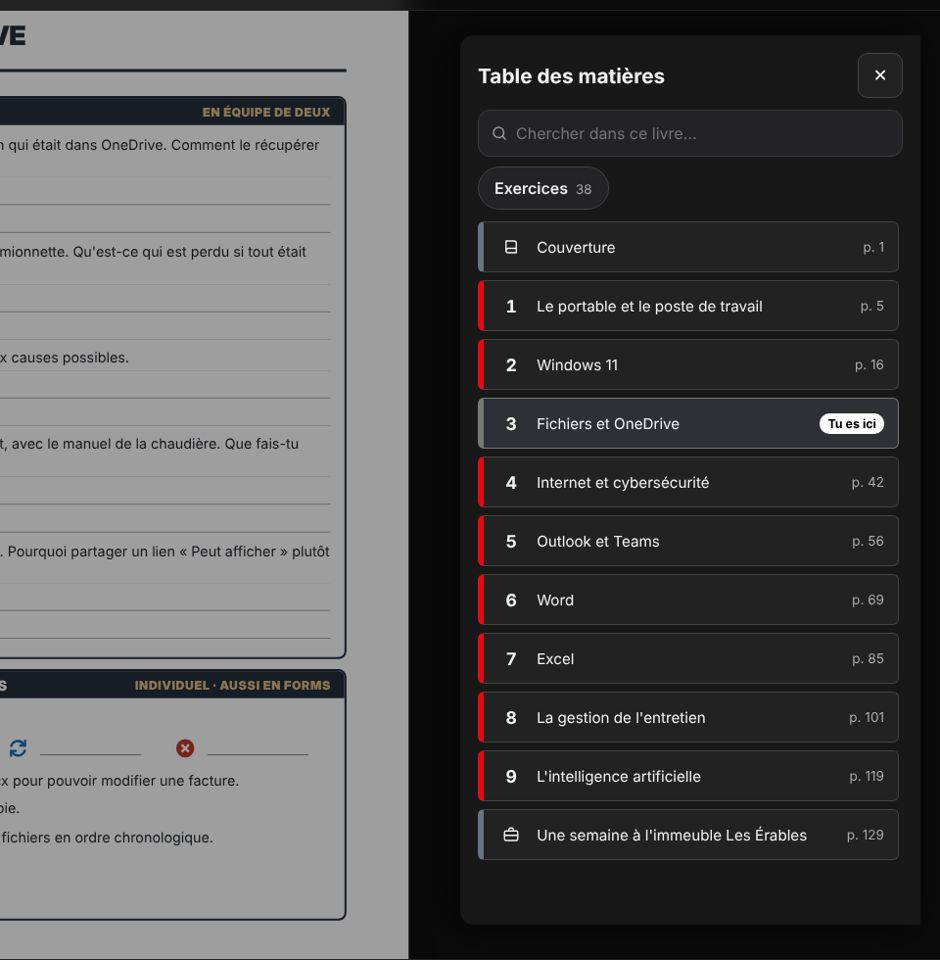
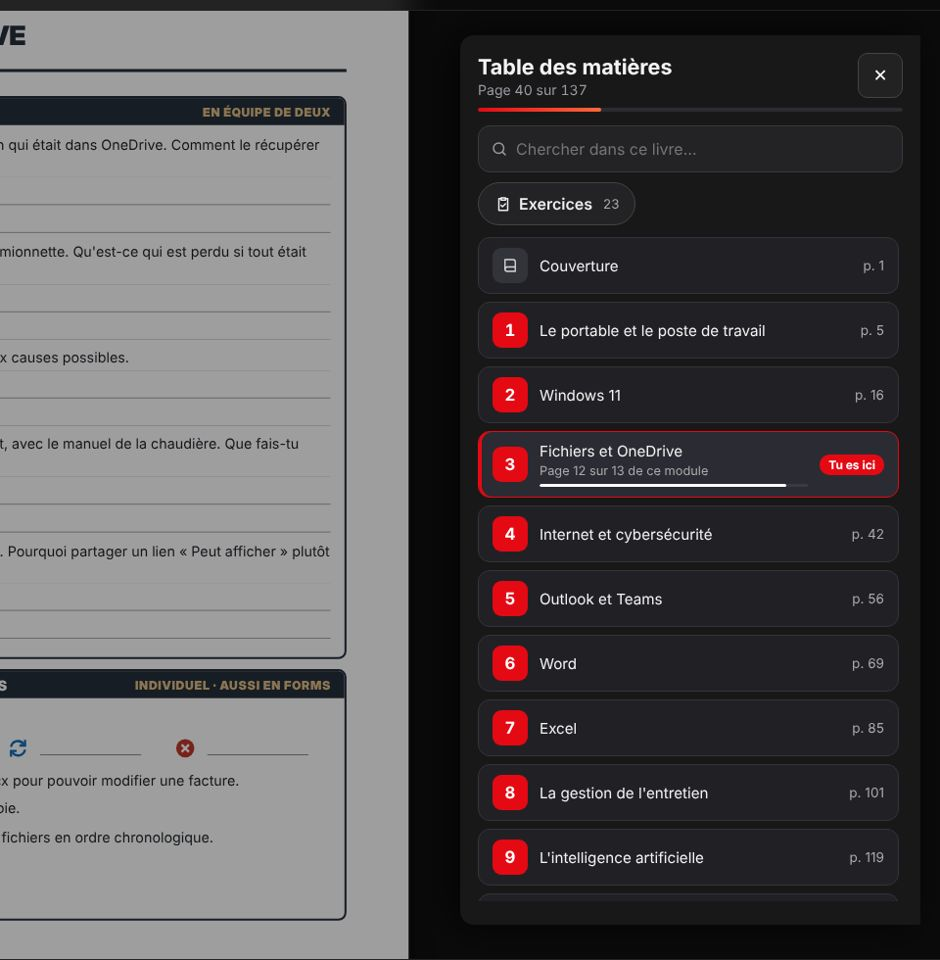
Table des matières : progression dans le livre et dans le module, numéros en pastilles, puces avec icônes
Claude-Session: https://claude.ai/code/session_01SDiVRMFd6TDbds6mykcuza

diff --git a/index.html b/index.html
@@ -504,7 +504,17 @@
   .mmenu-box{max-width:none;width:min(470px,94vw);max-height:none;height:100%;border-radius:14px 0 0 14px;padding:18px 18px 24px;display:flex;flex-direction:column;overflow:hidden;box-shadow:-10px 0 40px #000a}
   .mmenu:not([hidden]) .mmenu-box{animation:mmGlisse .28s cubic-bezier(.2,.8,.2,1)}
   @keyframes mmGlisse{from{translate:40px 0;opacity:.4}}
-  .mm-top{display:flex;align-items:center;gap:10px;margin-bottom:12px}.mm-top h2{margin:0!important;flex:1}
+  .mm-top{display:flex;align-items:center;gap:10px;margin-bottom:10px}.mm-titre{flex:1;min-width:0}.mm-top h2{margin:0!important;font-size:1.35rem}
+  .mm-ou{color:#9a9aa2;font-size:.88rem;margin-top:2px;font-variant-numeric:tabular-nums}
+  .mm-prog{height:4px;border-radius:2px;background:#2c2c31;margin:0 0 14px;overflow:hidden}.mm-prog i{display:block;height:100%;background:linear-gradient(90deg,#e50914,#ff6a3d);border-radius:2px;transition:width .4s}
+  .mmenu .mm{border:1px solid #34343a;border-left:1px solid #34343a;background:#212125;border-radius:12px;transition:background .15s,border-color .15s,transform .1s}
+  .mmenu .mm:hover{background:#2a2a30;border-color:#4a4a52}.mmenu .mm:active{transform:scale(.985)}
+  .mmenu .mm b{flex:none;width:36px;height:36px;border-radius:9px;background:var(--a,#e50914);color:#fff;font-size:1.05rem}
+  .mmenu .mm.mm-couverture b,.mmenu .mm.mm-intro b,.mmenu .mm.mm-lexique b,.mmenu .mm.mm-table b,.mmenu .mm.mm-sources b,.mmenu .mm.mm-annexe b,.mmenu .mm.mm-autre b,.mmenu .mm.mm-formatif b,.mmenu .mm.mm-projet b,.mmenu .mm.mm-bravo b{background:#33333a;color:#d8d8de}
+  .mmenu .mm.mm-ici{background:#2b2b33;border-color:#e50914;box-shadow:inset 3px 0 0 #e50914}
+  .mm-sous{display:block;color:#a8a8b0;font-size:.8rem;margin-top:3px}
+  .mm-av{display:block;height:3px;border-radius:2px;background:#3a3a42;margin-top:6px;position:relative;overflow:hidden}.mm-av::after{content:"";position:absolute;inset:0 auto 0 0;width:var(--av);background:#fff;border-radius:2px}
+  .mm-puces button{display:inline-flex;align-items:center;gap:7px}
   .mm-x{width:46px;height:46px;border-radius:10px;border:1px solid #444;background:#222;color:#fff;font-size:1.1rem;cursor:pointer}
   .mm-cherche{display:flex;align-items:center;gap:8px;background:#232326;border:1px solid #3a3a3e;border-radius:12px;padding:0 12px;height:48px;color:#999}
   .mm-cherche input{flex:1;min-width:0;background:none;border:0;outline:0;color:#fff;font:inherit;font-size:1rem}
@@ -514,11 +524,11 @@
   .mm-puces button.on{background:#fff;color:#000;border-color:#fff}.mm-puces button.on small{color:#555}
   .mmenu .mmenu-list{grid-template-columns:1fr;overflow:auto;flex:1;align-content:start;padding-right:4px}
   .mmenu .mm{min-height:52px;padding:10px 14px}
-  .mmenu .mmenu-list{display:flex;flex-direction:column;gap:8px}.mmenu .mmenu-list>*{flex:none}.mmenu .mm-res{height:auto;align-items:flex-start}.mm-res b{margin-top:2px}
+  .mmenu .mmenu-list{display:flex;flex-direction:column;gap:8px}.mmenu .mmenu-list>*{flex:none}.mmenu .mm-res{height:auto;align-items:center}.mmenu .mm-res:has(.mm-ext){align-items:flex-start}.mmenu .mm-res b{margin-top:0;width:auto;min-width:36px;padding:0 6px;font-size:.95rem}
   .mm span{flex:1;min-width:0}
   .mm-p{flex:none;color:#888;font-size:.85rem}
-  .mm.mm-ici{background:#2f3036;border-color:#777}
-  .mm-tag{flex:none;font-style:normal;font-size:.78rem;font-weight:700;background:#fff;color:#000;border-radius:10px;padding:3px 8px}
+
+  .mm-tag{flex:none;font-style:normal;font-size:.75rem;font-weight:700;background:#e50914;color:#fff;border-radius:10px;padding:3px 9px}
   .mm-ext{display:block;color:#aaa;font-size:.82rem;margin-top:3px;line-height:1.3;overflow:hidden;display:-webkit-box;-webkit-line-clamp:2;-webkit-box-orient:vertical}
   @media (max-width:640px){.mmenu-box{width:100%;border-radius:0}}
   .mm-h{grid-column:1/-1;font-weight:700;color:#bbb;font-size:.85rem;letter-spacing:.06em;text-transform:uppercase;margin-top:6px}
@@ -1031,7 +1041,7 @@ document.addEventListener("keydown", e => { if (e.key !== "/" || e.ctrlKey || e.
     <div id="tbPop" role="menu" aria-label="Plus d'outils"><div class="tbph"><b>Plus d'outils</b><span><button id="tbOrg" title="Glisser les boutons pour les déplacer entre la barre et ce menu">✎ Organiser</button><button id="tbRaz" title="Remettre la disposition d'origine">Réinitialiser</button></span></div><div class="grid" id="tbGrid"></div><p class="tbhint">Mode organiser : glisse un bouton pour le changer de place ou le passer entre la barre et ce menu.</p></div>
   </div>
   <button class="barres-handle" id="barresHandle" aria-label="Afficher les barres d'outils" title="Afficher les outils (H)"><svg viewBox="0 0 24 24" width="16" height="16" fill="none" stroke="currentColor" stroke-width="1.8" stroke-linecap="round" stroke-linejoin="round" aria-hidden="true"><path d="M6 15l6-6 6 6"/></svg></button>
-  <div class="mmenu" id="mmenu" hidden role="dialog" aria-label="Modules"><div class="mmenu-box"><div class="mm-top"><h2>Table des matières</h2><button class="mm-x" id="mmX" aria-label="Fermer">✕</button></div><div class="mm-outils"><label class="mm-cherche"><svg viewBox="0 0 24 24" width="18" height="18" fill="none" stroke="currentColor" stroke-width="2" stroke-linecap="round" aria-hidden="true"><circle cx="11" cy="11" r="7"/><path d="M20 20l-3.5-3.5"/></svg><input id="mmQ" type="search" placeholder="Chercher dans ce livre…" aria-label="Chercher dans ce livre" autocomplete="off"></label><div class="mm-puces" id="mmPuces"></div></div><div class="mmenu-list" id="mmenuList"></div></div></div>
+  <div class="mmenu" id="mmenu" hidden role="dialog" aria-label="Modules"><div class="mmenu-box"><div class="mm-top"><div class="mm-titre"><h2>Table des matières</h2><div class="mm-ou" id="mmOu"></div></div><button class="mm-x" id="mmX" aria-label="Fermer">✕</button></div><div class="mm-prog"><i id="mmProg"></i></div><div class="mm-outils"><label class="mm-cherche"><svg viewBox="0 0 24 24" width="18" height="18" fill="none" stroke="currentColor" stroke-width="2" stroke-linecap="round" aria-hidden="true"><circle cx="11" cy="11" r="7"/><path d="M20 20l-3.5-3.5"/></svg><input id="mmQ" type="search" placeholder="Chercher dans ce livre…" aria-label="Chercher dans ce livre" autocomplete="off"></label><div class="mm-puces" id="mmPuces"></div></div><div class="mmenu-list" id="mmenuList"></div></div></div>
 </div>
 
 <div class="modal" id="modal">
@@ -4917,7 +4927,12 @@ function dessinerMenu(){
   }
   const pc = tdmPageCourante(); let ici = -1;
   if (pc) mods.forEach((m, i) => { if (typeof m.page === "number" && m.page <= pc && (ici < 0 || m.page >= mods[ici].page)) ici = i; });
-  h += mods.map((m, i) => `<button class="mm mm-${m.kind || "module"}${i === ici ? " mm-ici" : ""}" data-i="${i}" style="--a:${esc(m.color || "#e50914")}"><b>${m.ico || esc(m.tag)}</b><span>${esc(m.text)}</span>${i === ici ? '<em class="mm-tag">Tu es ici</em>' : typeof m.page === "number" ? `<small class="mm-p">p. ${m.page}</small>` : ""}</button>`).join("");
+  const tot = (() => { try { return RD.drv.state().tot || 0; } catch(e){ return 0; } })();
+  if ($("#mmOu")) { $("#mmOu").textContent = pc ? "Page " + pc + (tot ? " sur " + tot : "") : ""; $("#mmProg").style.width = (pc && tot ? Math.round(pc / tot * 100) : 0) + "%"; }
+  const finMod = i => { const n = mods.slice(i + 1).find(m => typeof m.page === "number" && m.page > mods[i].page); return n ? n.page - 1 : tot || mods[i].page; };
+  h += mods.map((m, i) => { const ic = i === ici, f = typeof m.page === "number" ? finMod(i) : 0, nb = f && f >= m.page ? f - m.page + 1 : 0;
+    const av = ic && nb ? Math.max(4, Math.round((pc - m.page + 1) / nb * 100)) : 0;
+    return `<button class="mm mm-${m.kind || "module"}${ic ? " mm-ici" : ""}" data-i="${i}" style="--a:${esc(m.color || "#e50914")}"><b>${m.ico || esc(m.tag)}</b><span>${esc(m.text)}${ic && nb > 1 ? `<small class="mm-sous">Page ${pc - m.page + 1} sur ${nb} de ce module</small><i class="mm-av" style="--av:${av}%"></i>` : ""}</span>${ic ? '<em class="mm-tag">Tu es ici</em>' : typeof m.page === "number" ? `<small class="mm-p">p. ${m.page}</small>` : ""}</button>`; }).join("");
   const L = $("#mmenuList"); L.innerHTML = h;
   setTimeout(() => { const e = L.querySelector(".mm-ici"); if (e) e.scrollIntoView({ block:"center" }); }, 0);
   L.querySelectorAll(".mm[data-i]").forEach(b => b.onclick = () => { closeMenu(); mods[+b.dataset.i].run(); setTimeout(() => { syncSecond(); poll(); }, 300); });
@@ -4958,10 +4973,12 @@ function tdmPages(){
   RD.tdmCache = { d, p }; return p;
 }
 function tdmOutils(){
-  const P = tdmPages(), na = P.filter(x => x.anim).length, ne = P.filter(x => x.exo).length;
+  const P = tdmPages(), grp = k => { let n = 0, d = null; P.forEach(x => { if (!x[k]) return; const t = x.h || ""; if (!(d && d.t === t && d.f === x.n - 1)) n++; d = { t, f:x.n }; }); return n; };
+  const na = grp("anim"), ne = grp("exo");
   const B = $("#mmPuces");
-  B.innerHTML = (na ? `<button data-vue="anim" class="${RD.mmVue === "anim" ? "on" : ""}">Animations <small>${na}</small></button>` : "")
-    + (ne ? `<button data-vue="exo" class="${RD.mmVue === "exo" ? "on" : ""}">Exercices <small>${ne}</small></button>` : "");
+  const ic = d => '<svg viewBox="0 0 24 24" width="18" height="18" fill="none" stroke="currentColor" stroke-width="2" stroke-linecap="round" stroke-linejoin="round" aria-hidden="true">' + d + '</svg>';
+  B.innerHTML = (na ? `<button data-vue="anim" class="${RD.mmVue === "anim" ? "on" : ""}">${ic('<circle cx="12" cy="12" r="9"/><path d="M10 8.5l5 3.5-5 3.5z" fill="currentColor"/>')}Animations <small>${na}</small></button>` : "")
+    + (ne ? `<button data-vue="exo" class="${RD.mmVue === "exo" ? "on" : ""}">${ic('<path d="M9 4h6v3H9z"/><path d="M15 5h3v16H6V5h3"/><path d="M9 14l2 2 4-4"/>')}Exercices <small>${ne}</small></button>` : "");
   B.querySelectorAll("button").forEach(b => b.onclick = () => { RD.mmVue = RD.mmVue === b.dataset.vue ? "" : b.dataset.vue; $("#mmQ").value = ""; tdmOutils(); tdmListe(); });
   $("#mmQ").parentElement.hidden = !P.length;
 }

diff --git a/CLAUDE.md b/CLAUDE.md
@@ -131,7 +131,7 @@
 - **Livres téléchargés d'avance (7 nov., « il pourrait pas se télécharger automatiquement »)** : script à la toute fin d'`index.html` (`window.telechargerLivres`) : connecté + service worker actif → chaque livre permis (`livres/<f>.chiffre` ou `.html`) est demandé un à la fois (1,5 s entre deux), 12 s après le chargement puis aux 60 s jusqu'à ce que ce soit fait pour la session; `sw.js` (`copieDabord`) le garde, ou vérifie seulement s'il a changé. Pas sur `navigator.connection` cellulaire / `saveData` / 2g-3g; en pause tant qu'un livre est ouvert ou l'onglet caché. Testé : 13 livres en cache. Ça accélère l'ouverture, pas les animations.
 - **Mode léger (6 nov., « animations super lentes sur le tableau interactif »)** : script en tête d'`index.html` **et** d'`accueil.html` (même code) : `localStorage.modeLeger` = "oui" | "non" (rien = automatique); en auto, 3 s après le chargement un essai de 1,5 s (div floutée animée, invisible à 3 %) mesure l'image médiane : > 28 ms = `modeLegerMesure:"lent"`. Classe `html.leger` : CSS « Mode léger » (index : pas de `backdrop-filter`, transitions .01 s, animations coupées sauf les exceptions du `prefers-reduced-motion`; accueil : pas de flou, `animPermise()` faux donc fond figé, un `MutationObserver` refait `applyBg`); `LEGERCSS` ajouté à `HOSTCSS` à l'ouverture d'un livre (pas de flou, transition de page .01 s); `setupExtras` ne fait pas les copies de page en mode léger. `window.modeLegerChoix()` / `modeLegerFixer(v)`; réglage « Animations » (Automatique / Complètes / Légères) dans Mes préférences. **Cellulaire (7 nov.)** : en automatique, un petit écran tactile (`cell()` : `pointer:coarse` et petit côté de l'écran ≤ 600 px) est toujours en mode léger (pas l'iPad); « Complètes » l'enlève. Testé en Chromium avec CPU ×8 (accueil = lent → classe posée) et forcé "oui"; **pas testé sur le vrai TNI** : si c'est encore lent, regarder le poids des livres (pages 816×1056 agrandies en 4K) et les animations propres aux livres, que le mode léger ne touche pas.
 - **Plein écran à l'ouverture d'un livre (6 nov., demande de Jeremy)** : début de `lire(l)` demande `requestFullscreen` sur `document.documentElement` (pendant le geste du clic; `closeReader` le quitte déjà), sauf en mode classe ou si `PREF().plein === false` (Mes préférences → « Livre en plein écran » Oui/Non, défaut oui). Pas pour le tableau blanc ni les activités. Testé par simulation de `requestFullscreen` (appelé 1 fois; 0 avec le réglage Non); un livre protégé non permis passe aussi en plein écran avant la fenêtre de connexion.
-- **Table des matières en panneau (7 nov., idée D choisie par Jeremy)** : `#mmenu` = panneau à droite (livre visible derrière), en-tête « Table des matières » + ✕ `#mmX`, recherche `#mmQ` (texte de chaque `.page` du cadre, nœuds texte joints par des espaces; ≥ 2 lettres, 40 résultats max, Entrée = 1er résultat), puces `#mmPuces` Animations (page avec `-st1`/`dmc-` ou titre « Animation ») / Exercices (`.reponse`, `.reponse-choix`, `.ans`, champs) → `tdmListe` (pages consécutives au même titre regroupées « Pages a à b »); `tdmPages` (cache `RD.tdmCache` par document; titre = h1/h2/h3, sinon le plus gros texte court ≥ 17 px); « Tu es ici » = dernier module dont `page` ≤ page courante (les modules ont maintenant `page`). Liste en `flex` colonne (en grille, les rangées de résultats étaient coupées). Testé : C9 et micro-ordinateur (clairs) à 1920×1080; pas testé : cellulaire, TNI, livres chiffrés en ligne.
+- **Table des matières en panneau (7 nov., idée D choisie par Jeremy)** : `#mmenu` = panneau à droite (livre visible derrière), en-tête « Table des matières » + ✕ `#mmX`, recherche `#mmQ` (texte de chaque `.page` du cadre, nœuds texte joints par des espaces; ≥ 2 lettres, 40 résultats max, Entrée = 1er résultat), puces `#mmPuces` Animations (page avec `-st1`/`dmc-` ou titre « Animation ») / Exercices (`.reponse`, `.reponse-choix`, `.ans`, champs) → `tdmListe` (pages consécutives au même titre regroupées « Pages a à b »); `tdmPages` (cache `RD.tdmCache` par document; titre = h1/h2/h3, sinon le plus gros texte court ≥ 17 px); « Tu es ici » = dernier module dont `page` ≤ page courante (les modules ont maintenant `page`). Liste en `flex` colonne (en grille, les rangées de résultats étaient coupées). Finition (même soir) : « Page N sur T » + barre rouge sous le titre (`#mmOu`, `#mmProg`), numéros dans des carrés de couleur (`--a`), module en cours encadré de rouge avec « Page x sur y de ce module » + mini-barre (`.mm-sous`, `.mm-av`; fin du module = page du module suivant − 1), puces avec icônes, compte des puces = nombre de groupes (comme la liste). Testé : C9 et micro-ordinateur (clairs) à 1920×1080; pas testé : cellulaire, TNI, livres chiffrés en ligne.
 - **Barre de recherche** (29 oct.) : pilule 270 px → 340 px au focus, loupe `.search-ico`, touche « / » affichée (`.search-kbd`, cachée au toucher, au focus ou s'il y a du texte) et raccourci « / » (script après `<main id="rows">`, pas dans un livre, une fenêtre ou une case de saisie); croix d'effacement redessinée; version claire dans le bloc `body.clair`.
 - **Livres protégés / comptes enseignants** (29 oct., demande de Jeremy : « protéger les livres », en restant sur GitHub Pages) : bloc « Accès protégé » à la fin de `index.html` (`window.ACCES`). Livres **chiffrés** : `livres/<f>.chiffre` = iv(12) + AES-GCM(gzip(html)), recherche dans `recherche/<f>.chiffre` (même clé); `comptes.json` (public) : `comptes{id:{nom, pub (JWK RSA-OAEP-256), priv:{s,i,c} (clé privée PKCS8 chiffrée par PBKDF2 250 000 du mot de passe), admin}}`, `livres{f:{cles{id: clé AES enveloppée RSA}}}`. Le mot de passe ne sort jamais du navigateur; session = clé privée non exportable dans IndexedDB `acces`. Bouton `#compteBtn` (initiales une fois connecté; menu : Gérer les accès [admin], Se déconnecter), entrée « Se connecter » du menu Plus (`data-plus="compte"`). `lire()` attend `ACCES.pret`, ouvre la connexion si besoin, refuse un livre non permis; `bookCard` met un cadenas `.cadenas` sur un livre verrouillé; `chargerIndex` fusionne `ACCES.recherche()`. **Inscription** : l'enseignant crée sa demande (paire de clés créée dans son navigateur) → code `DEMANDE-…` à envoyer à Jeremy → panneau « Accès des enseignants » (admin; une fiche `.acces-fiche` par enseignant depuis le 29 oct. — l'ancien tableau débordait avec beaucoup de livres : boutons programmes / Mot de passe / Retirer en haut, livres en pastilles `.acces-chip` groupées par programme dans un `<details data-fiche>` « Livres permis : n sur N », ouvert/fermé gardé dans `OUVERTS` entre deux redessins) : coller le code, cocher les livres (la clé du livre est ouverte avec la clé de l'admin et enveloppée pour l'enseignant), **Publier** (API GitHub `PUT contents/comptes.json`, jeton fin `localStorage.ghJeton`) ou « Télécharger comptes.json ». **Outil** `outils/chiffrer.js <site> [<dépôt>] [--proteger f1,f2]` : nouvelle clé par livre, vérification octet pour octet, clé enveloppée pour les admins + ceux qui avaient déjà le livre, original clair déplacé dans `/home/claude/originaux/livres` (jamais publié), `.html` clair effacé du site et du dépôt, entrée retirée de `recherche.json`. `publier.sh` l'appelle à chaque publication (mise à jour d'un livre protégé : déposer le `.html` clair dans `livres/`, publier avec le nom du livre → vérifié en clair puis chiffré). **Code court (29 oct.)** : les nouveaux comptes sont en **ECDH P-256** (`pub` = JWK EC x/y; `priv.c` = la valeur `d` de 32 octets chiffrée); code `DEMANDE-` binaire en base64url ≈ 220 caractères (`demande`/`lireDemande` : version 2, bits de programmes `PROG_BITS`, clé publique brute 65 o, sel, iv, d chiffré, nom). Clés des livres pour un compte EC : `"E" + base64(clé éphémère 65 o | iv 12 | AES-GCM(clé du livre))` (`envelopperPour`, `ouvrirEnveloppe`, même format dans `chiffrer.js`); les comptes RSA (celui de Jeremy) et l'ancien code JSON `eyJ…` restent acceptés. **Programmes** : `comptes[id].prog` = catégories de `LIVRES` (« Entretien général d'immeubles », « Plomberie et chauffage »); l'enseignant les coche dans sa demande; le panneau a des boutons EGI / Plomberie par enseignant (`appliquerProgs` : donne/retire tous les livres protégés de ce programme); `chiffrer.js` lit la catégorie de chaque livre dans `index.html` et enveloppe aussi la clé pour ceux qui ont ce programme (nouveau livre protégé = donné automatiquement). **Demandes → panneau admin** (FormSubmit abandonné : aucun courriel reçu, ni école ni Hotmail) : la demande est publiée sur le sujet ntfy.sh `https://ntfy.sh/biblio-pavillon-5edf93926a704efe` (`BOITE`, POST du code, titre « Demande d'acces : nom »); le panneau « Accès des enseignants » lit `BOITE/json?poll=1&since=12h` (`lireBoite`) et liste les « Demandes reçues » (Accepter = ajoute avec ses programmes; Ignorer), gardées dans `localStorage.demandesVues` de l'ordinateur de l'admin; « Ignorer » met le code dans `localStorage.demandesIgnorees` (la même demande renvoyée ne réapparaît plus; une nouvelle demande de la même personne, oui). Clé GitHub déjà enregistrée : la case et « Télécharger comptes.json » sont cachées, petit lien « Changer » (`#gChg`); erreur 401 → conseil de la changer; ntfy.sh ne garde que 12 h, donc le navigateur du prof garde `demandeEnAttente` et la renvoie (au plus toutes les 6 h, `relancerDemande`) tant que son compte n'est pas dans `comptes.json`. Menu du compte admin : « (N demandes) » + contour rouge (`compterDemandes`). Si l'envoi échoue : code court + bouton « Envoyer par Teams » (lien profond Teams vers raymjere@csskamloup.gouv.qc.ca avec le lien `#accepter=<code>`, `accepterDepuisLien`). Jeremy peut s'abonner au sujet dans l'appli ntfy pour être avisé. **Mots de passe** : « Mot de passe oublié ? » dans la connexion → même formulaire (`dlgDemande(true)`, sans programmes, nom d'un compte existant) → demande « Nouveau mot de passe » dans la boîte (une demande dont la clé publique diffère du compte existant); bouton « Mot de passe » par enseignant dans le panneau (`prompt`, l'admin choisit le mot de passe); les deux passent par `remplacerCompte` (nouvelles clés, mêmes livres et programmes). Le compte admin de Jeremy (RSA) ne peut être réinitialisé par personne : s'il oublie, il refait une demande et Claude remplace son compte dans `comptes.json` (admin:true) puis rechiffre les livres (`chiffrer.js`, les originaux sont dans `/home/claude/originaux/livres` — dossier perdu si la session est recréée : redemander les livres à Jeremy). Limites : retirer un livre à quelqu'un n'efface pas une copie déjà ouverte (pour couper vraiment : rechiffrer le livre); les anciennes versions claires restent dans l'historique git tant qu'on ne l'a pas effacé. État le 29 oct. : compte admin `jeremy.raymond` (demande reçue de Jeremy); **tous les 8 livres sont protégés** (29 oct., 18 h 20; comptes : `jeremy.raymond` admin RSA, `stephane.lachance` EC, EGI + Plomberie). Pour protéger un nouveau livre : déposer le `.html`, `git pull` du dépôt et recopier `comptes.json` dans le site, `node outils/chiffrer.js site bibliotheque --proteger <livre>`, puis `GARDER_COMPTES=1 bash outils/publier.sh …` (sinon publier.sh recopie le `comptes.json` en ligne par-dessus). Copie des originaux aussi dans le dossier scratchpad `originaux_sauvegarde`. Testé (copie de test) : cadenas, mauvais mot de passe, ouverture, recherche, ajout d'une enseignante par le panneau, refus d'un livre non permis, session gardée, `livres/x.html` → 404.
 - **Fenêtres du compte habillées** (29 oct., « c'est fade ») : `marque(titre, sous)` = en-tête `.acces-marque` (logo Pavillon en blanc, dégradé rouge) pour Se connecter / Demander un accès / Mot de passe oublié; programmes en cartes `.acces-prog` avec icônes `ICO_PROG`; `succes(titre, html)` = écran `.acces-succes` (cercle vert tracé, remplissage, crochet, halo, 18 confettis `.conf`, texte qui monte; `prefers-reduced-motion` respecté) après l'envoi d'une demande.
